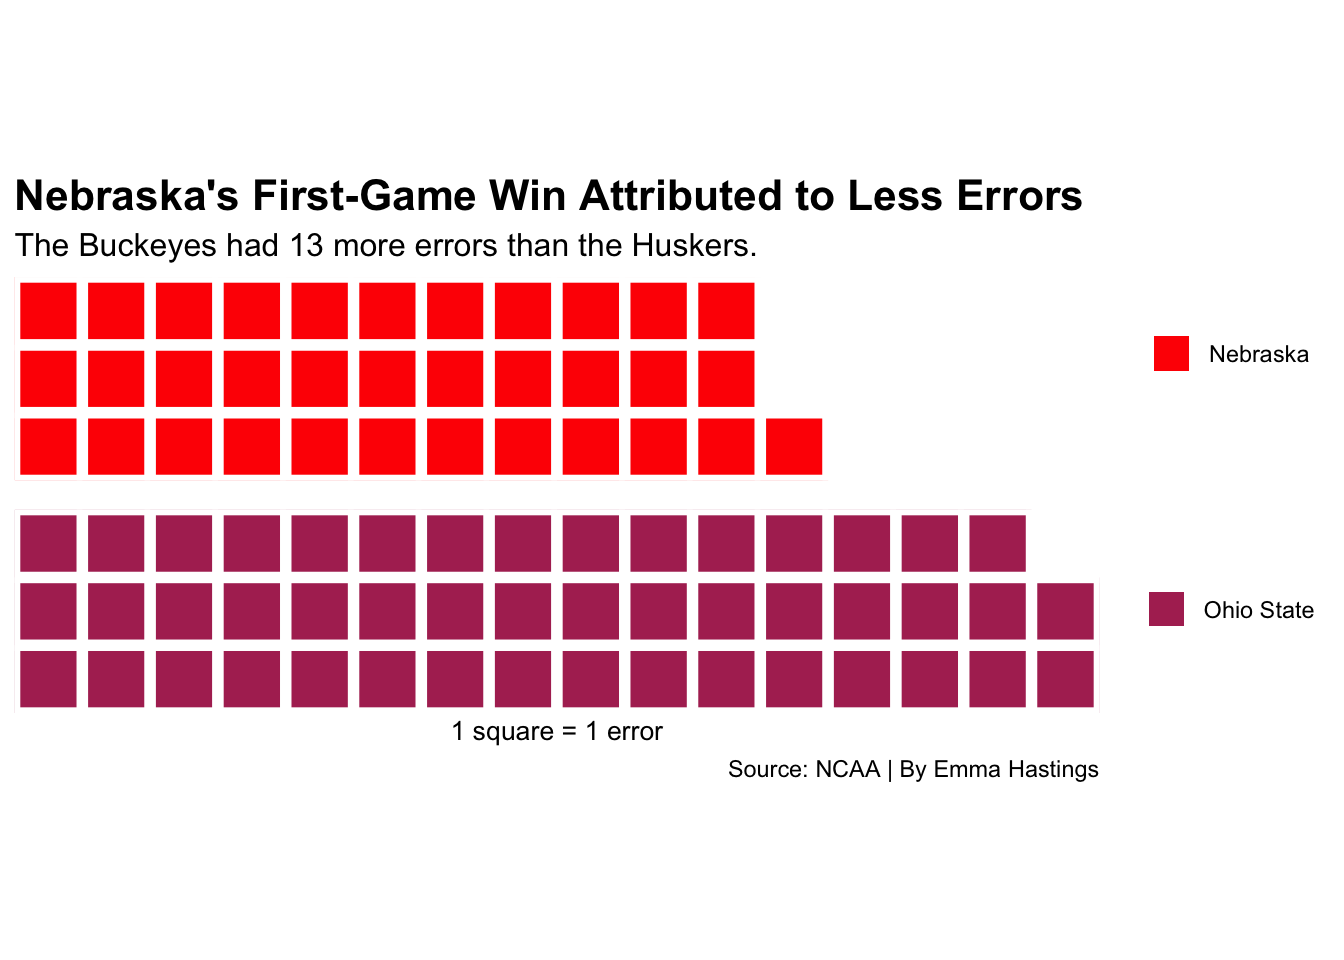
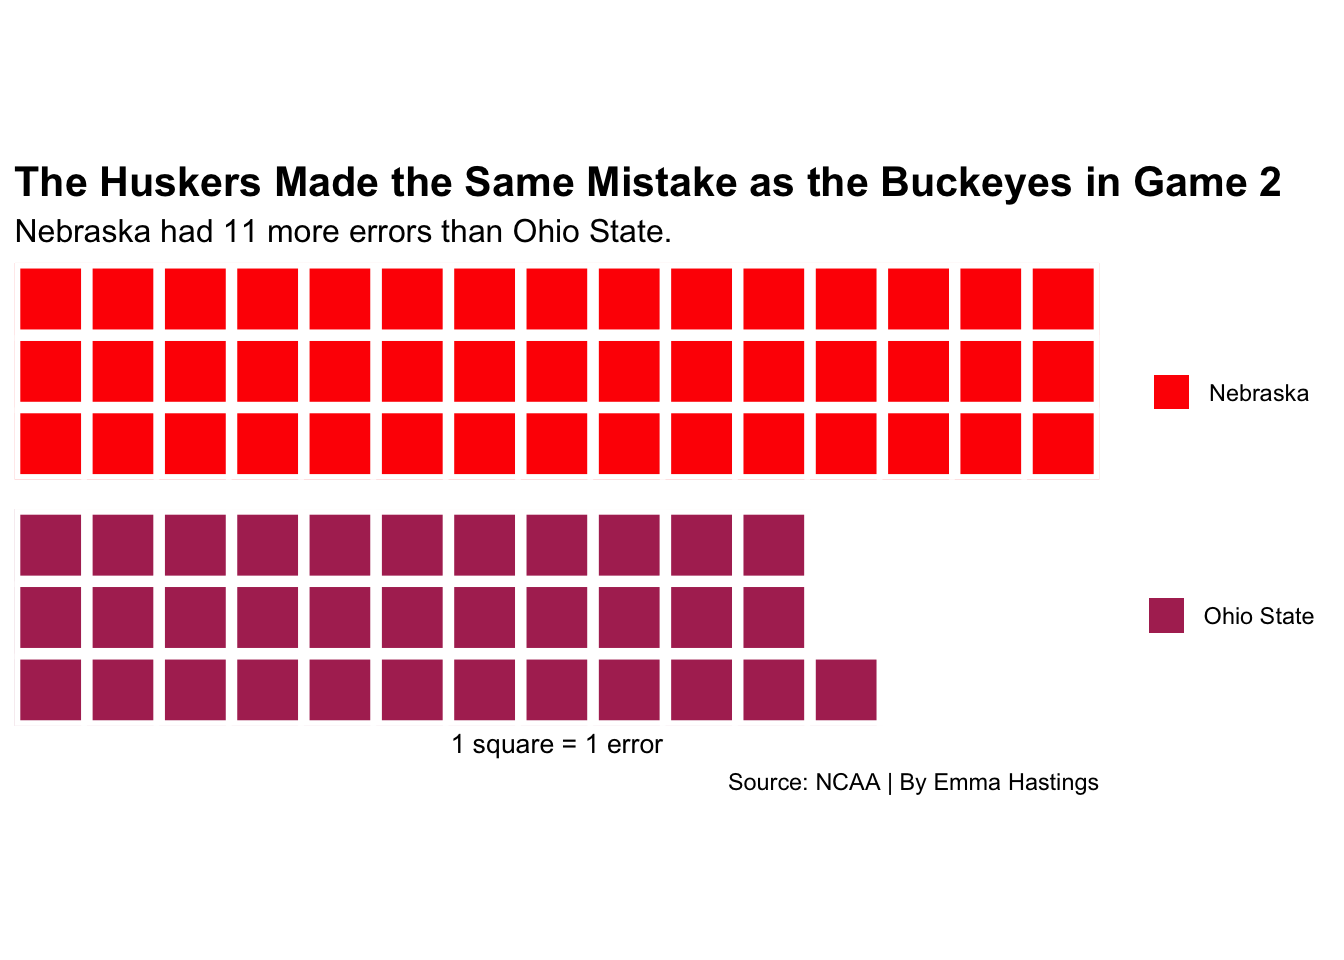
Another update to blog post.

diff --git a/2021/03/26/explaining-the-split-how-nebraska-volleyball-lost-to-a-team-they-beat-24-hours-before/index.html b/2021/03/26/explaining-the-split-how-nebraska-volleyball-lost-to-a-team-they-beat-24-hours-before/index.html
@@ -64,7 +64,7 @@
 
   <article class="article">
     
-    <span class="article-duration">10 min read</span>
+    <span class="article-duration">12 min read</span>
     
 
     <h1 class="article-title">Explaining the Split - How Nebraska Volleyball Lost to a Team They Beat 24 Hours Before</h1>
@@ -78,11 +78,11 @@
 <script src="http://ehastings17.github.io/2021/03/26/explaining-the-split-how-nebraska-volleyball-lost-to-a-team-they-beat-24-hours-before/index_files/header-attrs/header-attrs.js"></script>
 
 
-<p>There is no doubt that Nebraska is a volleyball school. After three visits to the NCAA Championship in the last 5 years, including 2 national championships, it would be insane to argue against it. Resultingly, any team playing the Cornhuskers really has to step up their game to compete, let alone make an attempt at getting a +1 in their win column.</p>
-<p>In mid-March, Ohio State was the next team to face off against the Huskers. The teams had two back-to-back games on the 12th and 13th. The Buckeyes were a surprise team in the Big Ten and were walking into Lincoln undefeated. Every fan of Big Ten volleyball knew that this was going to be an insane series - and they were right.</p>
+<p>There is no doubt that Nebraska is a volleyball school. After three visits to the NCAA Championship in the last 5 years, including 2 national championships in 2015 and 2017, it would be insane to argue against that statement. Unsurprisingly, any team playing the Cornhuskers has to step up their game to compete, let alone to make an attempt at getting a +1 in their win column.</p>
+<p>In mid-March, Ohio State was the next team to face off against Nebraska with two back-to-back games on the 12th and 13th. The Buckeyes were a surprise team in the Big Ten and were walking into Lincoln undefeated. Every fan of Big Ten volleyball knew that this was going to be an insane series - and they were right.</p>
 <p>After the weekend was over, Nebraska and Ohio State had split two five-set thrillers, with Nebraska taking the first game on the 12th, and Ohio State taking the second game on the 13th.</p>
-<p>So, what did it take for Nebraska to beat the only undefeated team left in the Big Ten? What did Ohio State have to do to rebound off a loss and beat one of the best teams in the nation? That’s what I’ll dive into in this blog post.</p>
-<p>First, I’m going to run the necessary libraries for this project, tidyverse, cowplot, waffle, ggrepel, and ggalt. Then, I’ll import two different data sets - one showing individual statistics for each player for each game, and the other showing team statistics from each set of both matches. I found this data on the NCAA’s website here** and here**.</p>
+<p>So, what did it take for Nebraska to beat the only undefeated team left in the Big Ten? What did Ohio State have to do to rebound after the loss and beat one of the best teams in the nation? That’s what I’ll dive into in this blog post.</p>
+<p>First, I’m going to run the necessary libraries for this project - tidyverse, cowplot, waffle, ggrepel, and ggalt. Then, I’ll import two different data sets - one showing individual statistics for each player for each game, and the other showing team statistics from each set of both matches. I found this data on the NCAA’s website <a href="https://www.ncaa.com/game/5783250">here</a> and <a href="https://www.ncaa.com/game/5783251">here</a>, and then I put the data into my own, importable CSV files.</p>
 <pre class="r"><code>library(tidyverse)</code></pre>
 <pre><code>## ── Attaching packages ─────────────────────────────────────── tidyverse 1.3.0 ──</code></pre>
 <pre><code>## ✓ ggplot2 3.3.3     ✓ purrr   0.3.4
@@ -105,7 +105,7 @@ library(ggalt)</code></pre>
 ##   grobY.absoluteGrob      ggplot2</code></pre>
 <pre class="r"><code>indivdata &lt;- read.csv(&quot;indivdata.csv&quot;)
 teamdata &lt;- read.csv(&quot;teamdata.csv&quot;)</code></pre>
-<p>Then, just to make things easier later on, I’m going to split each of my data sets up into two separate data frames by game. I’m going to be comparing the teams’ performances in each game, so now I’ll have it handy right when I need it.</p>
+<p>Then, just to make things easier later on, I’m going to split each of my data sets up into two separate data frames by game. I’m going to be comparing the teams’ performances in each game, and now I’ll have the data handy right when I need it.</p>
 <pre class="r"><code>indivgame1 &lt;- indivdata %&gt;% 
   filter(GAME == 1)
 
@@ -117,10 +117,10 @@ teamgame1 &lt;- teamdata %&gt;%
 
 teamgame2 &lt;- teamdata %&gt;% 
   filter(Game == 2)</code></pre>
-<p>I want to figure out what exactly made the difference in these two games. What stat line will explain Nebraska’s advantage in game one and Ohio State’s in game two? Being a volleyball player myself, I think it will be hitting percentage.</p>
+<p>I want to figure out what exactly made the difference in these two games. What stat lines will explain Nebraska’s advantage in game one and Ohio State’s in game two?</p>
+<p>Being a volleyball player myself, I think one will be hitting percentage. Hitting percentage tells us how likely a team is to get a kill. So, if a team’s hitting percentage is 35%, they’ll get a kill 35% of the time they get an attacking opportunity.</p>
 <p>Hitting percentage is calculated by subtracting a team’s hitting errors from their kills and dividing that number by the total number of hitting attempts. For all you math people, it looks like this: (kills-hitting errors)/total hitting attempts.</p>
-<p>First, I’ll make a line chart showing how Nebraska and Ohio State’s hitting percentages compare by set. I’m also adding annotations along the points on the chart to display the exact set-by-set hitting percentages.</p>
-<p>I also want to be able to tell who won each set just by looking at the chart. However, rather than cluttering up the chart with more words and numbers, I’m going to distinguish the winner of each set with a bigger point and each loser with a smaller point. I’m also going to assign this line chart to the variable “line1” for later.</p>
+<p>First, I am going to create a new data set with two new columns that convert the hitting percentages for both Nebraska and Ohio State to percentages. They are currently in decimal form, as that’s how they are usually displayed in volleyball statistics sets.</p>
 <pre class="r"><code>HPgame1 &lt;- teamgame1 %&gt;%
   mutate(NebPCT = (TeamPCT * 100)) %&gt;%
   mutate(OSUPCT = (OppPCT * 100))
@@ -128,6 +128,9 @@ teamgame2 &lt;- teamdata %&gt;%
 HPgame2 &lt;- teamgame2 %&gt;%
   mutate(NebPCT = (TeamPCT * 100)) %&gt;%
   mutate(OSUPCT = (OppPCT * 100))</code></pre>
+<p>In order to see hitting percentage’s effect on these games, I’m going to make two line charts showing how Nebraska and Ohio State’s hitting percentages compare by set. I’m also adding annotations to the chart to display the exact set-by-set hitting percentages.</p>
+<p>Additionally, I want to be able to tell who won each set just by looking at the chart. However, rather than cluttering up the chart with more words and numbers, I’m going to distinguish the winner of each set with a bigger point and the loser with a smaller point. The outcome of each game will be in the bottom left corner, as well. I’m also going to assign these line charts to the variables “line1” and “line2” for later.</p>
+<p>Here’s the code for the first line chart…</p>
 <pre class="r"><code>line1 &lt;- ggplot() +
   geom_line(data=HPgame1, aes(x=SET, y=NebPCT), color=&quot;red&quot;) +
   geom_line(data=HPgame1, aes(x=SET, y=OSUPCT), color=&quot;maroon&quot;) +
@@ -156,7 +159,7 @@ HPgame2 &lt;- teamgame2 %&gt;%
   scale_y_continuous(limits = c(0, 50)) +
   theme_bw() +
   theme(plot.title = element_text(size = 16, face = &quot;bold&quot;), plot.subtitle = element_text(size = 12), axis.title = element_text(size = 9))</code></pre>
-<p>Now let’s it all again, except we’ll do it for game 2. I’ll assign this line chart to the variable “line2”.</p>
+<p>… and here’s the code for the second.</p>
 <pre class="r"><code>line2 &lt;- ggplot() + 
   geom_line(data=HPgame2, aes(x=SET, y=NebPCT), color=&quot;red&quot;) +
   geom_line(data=HPgame2, aes(x=SET, y=OSUPCT), color=&quot;maroon&quot;) +
@@ -184,11 +187,12 @@ HPgame2 &lt;- teamgame2 %&gt;%
   labs(subtitle=&quot;The same thing happens in Game 2, except it&#39;s the Buckeyes&#39; turn.&quot;, x=&quot;Set&quot;, y=&quot;Hitting Percentage (%)&quot;, caption=&quot;Source: NCAA | By Emma Hastings&quot;) +
   theme_bw() +
   theme(plot.title = element_text(size = 16, face = &quot;bold&quot;), plot.subtitle = element_text(size = 12), axis.title = element_text(size = 9))</code></pre>
-<p>Finally, I’m going to use the plot_grid() code to put the line charts together. This way, we’ll be able to compare game 1’s hitting percentages with game 2’s. I also changed the figure height and width just so it’s not to scrunched together.</p>
+<p>Finally, I’m going to use “plot_grid()” to put the line charts together. This way, we’ll be able to compare Game 1’s hitting percentages with Game 2’s.</p>
 <pre class="r"><code>plot_grid(line1, line2, ncol = 1)</code></pre>
-<p><img src="http://ehastings17.github.io/2021/03/26/explaining-the-split-how-nebraska-volleyball-lost-to-a-team-they-beat-24-hours-before/index_files/figure-html/unnamed-chunk-6-1.png" width="360" /></p>
-<p>After comparing Nebraska and Ohio State’s hitting percentages from each set of both games, I can see that in every single set, the team with the best hitting percentage wins it, 100% of the time. Basically, in order for a team to win a set, and therefore win the game, they have to eliminate their hitting errors and capitalize on every opportunity they get to terminate the ball and wrack up more kills. Getting kills might be important, but if you’re committing an insane number of errors, you’re giving your opponent free points that they didn’t even have to work for.</p>
-<p>Speaking of errors, how much of an effect do they actually have on the outcome of the game? Well, as we saw above, hitting errors do make their presence known in the score. However, there are many different kinds of errors: hitting errors, serving errors, serve receive errors, blocking errors, and digging errors. So, why don’t we check out if the error column alone can predict the outcome of a game?</p>
+<p><img src="http://ehastings17.github.io/2021/03/26/explaining-the-split-how-nebraska-volleyball-lost-to-a-team-they-beat-24-hours-before/index_files/figure-html/unnamed-chunk-6-1.png" width="672" /></p>
+<p>After comparing Nebraska and Ohio State’s hitting percentages in both games, we can see that in every single set, the team with the best hitting percentage wins it. This happened 100% of the time in both matches</p>
+<p>Basically, in order for a team to win a set, and therefore win the game, they have to eliminate their hitting errors and capitalize on every opportunity they get to terminate the ball and wrack up more kills. Getting kills might be important, but if you’re committing an insane number of errors, you’re giving your opponent free points that they didn’t even have to work for.</p>
+<p>Speaking of errors, how much of an effect do they actually have on the outcome of the game? Well, as we saw above, hitting errors do make their presence known in the score. However, there are many different kinds of errors: hitting errors, serving errors, serve receive errors, blocking errors, and digging errors. So, why don’t we check out if the error column alone can predict the outcome of a game, as well?</p>
 <p>First, I’m going to isolate Nebraska and Ohio State by game.</p>
 <pre class="r"><code>neindivgame1 &lt;- indivgame1 %&gt;% 
   filter(TEAM == &quot;NEBRASKA CORNHUSKERS&quot;)
@@ -201,7 +205,7 @@ osuindivgame1 &lt;- indivgame1 %&gt;%
 
 osuindivgame2 &lt;- indivgame2 %&gt;% 
   filter(TEAM == &quot;OHIO STATE BUCKEYES&quot;)</code></pre>
-<p>Then, I mutated an “ERRORS” column that added up the total number of errors committed by each player (besides digging errors, which weren’t included in the stats).</p>
+<p>Then, I will mutate an “ERRORS” column that adds up the total number of errors committed by each player (besides digging errors, which weren’t included in the stats).</p>
 <pre class="r"><code>neerrorsgame1 &lt;- neindivgame1 %&gt;%
   group_by(NAME) %&gt;%
   mutate(ERRORS = sum(E + SE + RE + BE + BHE))
@@ -217,7 +221,7 @@ osuerrorsgame1 &lt;- osuindivgame1 %&gt;%
 osuerrorsgame2 &lt;- osuindivgame2 %&gt;%
   group_by(NAME) %&gt;%
   mutate(ERRORS = sum(E + SE + RE + BE + BHE))</code></pre>
-<p>Next, I summarized a “totalerrors” column that added up the total errors that each team committed for each game.</p>
+<p>Next, I will summarize a “totalerrors” column that adds up the total errors that each team committed for each game.</p>
 <pre class="r"><code>neTEgame1 &lt;- neerrorsgame1 %&gt;%
   group_by(TEAM) %&gt;% 
   summarise(totalerrors = sum(ERRORS))
@@ -233,26 +237,30 @@ osuTEgame1 &lt;- osuerrorsgame1 %&gt;%
 osuTEgame2 &lt;- osuerrorsgame2 %&gt;%
   group_by(TEAM) %&gt;% 
   summarise(totalerrors = sum(ERRORS))</code></pre>
-<p>Then, I made vectors for each team containing the number of errors they committed.</p>
+<p>Then, I will make vectors for each team containing the number of errors they committed.</p>
 <pre class="r"><code>nuerrorsg1 &lt;- c(&quot;Nebraska&quot; = 34, 13)
 nuerrorsg2 &lt;- c(&quot;Nebraska&quot; = 45)
 osuerrorsg1 &lt;- c(&quot;Ohio State&quot; = 47)
 osuerrorsg2 &lt;- c(&quot;Ohio State&quot; = 34, 11)</code></pre>
-<p>Finally, I put each data frame into a waffle and ironed them together to show how Nebraska and Ohio State compared for each game.</p>
+<p>Finally, I’m going to put each data frame into a waffle chart and iron them together to show how Nebraska and Ohio State compare in each game.</p>
+<p>Here is the code for the first iron…</p>
 <pre class="r"><code>g1errors &lt;- iron(waffle(nuerrorsg1, rows = 3, colors = c(&quot;red&quot;, &quot;white&quot;)) + 
-  labs(title = &quot;Nebraska&#39;s First-Game Win Attributed to Less Errors&quot;, subtitle = &quot;The Buckeyes had 13 more errors than the Huskers.&quot;) + 
+  labs(title = &quot;Nebraska&#39;s Win Attributed to Less Errors&quot;, subtitle = &quot;The Buckeyes had 13 more errors than the Huskers.&quot;) + 
   theme(plot.title = element_text(size = 16, face = &quot;bold&quot;), plot.subtitle = element_text(size = 12), axis.title.y = element_blank()),
 waffle(osuerrorsg1, rows = 3, xlab=&quot;1 square = 1 error&quot;, colors = c(&quot;maroon&quot;)) + 
   labs(caption = &quot;Source: NCAA | By Emma Hastings&quot;))</code></pre>
 <p><img src="http://ehastings17.github.io/2021/03/26/explaining-the-split-how-nebraska-volleyball-lost-to-a-team-they-beat-24-hours-before/index_files/figure-html/unnamed-chunk-11-1.png" width="672" /></p>
+<p>… and here’s the code for the second.</p>
 <pre class="r"><code>g2errors &lt;- iron(waffle(nuerrorsg2, rows = 3, colors = c(&quot;red&quot;)) + 
-  labs(title = &quot;The Huskers Made the Same Mistake in Game 2&quot;, subtitle = &quot;Nebraska had 11 more errors than Ohio State.&quot;) + 
-  theme(plot.title = element_text(size = 16, face = &quot;bold&quot;), plot.subtitle = element_text(size = 12), axis.title.y = element_blank()),
+  labs(title = &quot;The Huskers Made the Same Mistake as the Buckeyes in Game 2&quot;, subtitle = &quot;Nebraska had 11 more errors than Ohio State.&quot;) + 
+  theme(plot.title = element_text(size = 15.5, face = &quot;bold&quot;), plot.subtitle = element_text(size = 12), axis.title.y = element_blank()),
   waffle(osuerrorsg2, rows = 3, xlab=&quot;1 square = 1 error&quot;, colors = c(&quot;maroon&quot;, &quot;white&quot;)) +
     labs(caption = &quot;Source: NCAA | By Emma Hastings&quot;))</code></pre>
-<p><img src="http://ehastings17.github.io/2021/03/26/explaining-the-split-how-nebraska-volleyball-lost-to-a-team-they-beat-24-hours-before/index_files/figure-html/unnamed-chunk-11-2.png" width="672" /></p>
-<p>After a single glance at either game one or game two, it’s easy to see that errors were the kicker here. The winner of each game had significantly fewer errors than the loser. This makes complete sense. Not only can hitting percentage and total errors can predict the outcome of a game on their own, but imagine the damage they can do together. If a team is just having an off day - can’t get kills and are shanking passes and missing blocks left and right - it’s a fair statement that they will almost never win. That is, as long as the other team isn’t having an even worse day.</p>
-<p>Last, but not least, I want to do some comparisons about blocking.</p>
+<p><img src="http://ehastings17.github.io/2021/03/26/explaining-the-split-how-nebraska-volleyball-lost-to-a-team-they-beat-24-hours-before/index_files/figure-html/unnamed-chunk-12-1.png" width="672" /></p>
+<p>After a single glance at either Game 1 or Game 2, it’s a no-brainer that errors were the losers’ kryptonite here. The winner of each game had significantly fewer errors than the loser. This makes complete sense.</p>
+<p>If hitting percentage and total errors can predict the outcome of a game on their own, imagine the damage they can do together. If a team is just having an off day - can’t get kills, shanking passes, missing blocks left and right - it’s a fair statement to make that they will almost never win. That is, as long as the other team isn’t having an even worse day.</p>
+<p>Last, but not least, I want to do some comparisons with blocking. When a team blocks their opponent’s hits, there is absolutely nothing the other team can do about it. The rally is over, and you’re on your way to the back row to get ready for serve receive. Not to mention, a big block can do a lot for a team’s momentum. So, can blocks predict the outcome of a game, too? Let’s check it out.</p>
+<p>First, I am going to mutate a new column that adds up the total solo blocks and block assists for each player, and then I’ll add this to a new data frame for each game.</p>
 <pre class="r"><code>indivblockg1 &lt;- indivgame1 %&gt;%
  group_by(NAME) %&gt;%
   mutate(BLOCKS = sum(BS + BA))
@@ -260,6 +268,7 @@ waffle(osuerrorsg1, rows = 3, xlab=&quot;1 square = 1 error&quot;, colors = c(&q
 indivblockg2 &lt;- indivgame2 %&gt;%
  group_by(NAME) %&gt;%
   mutate(BLOCKS = sum(BS + BA))</code></pre>
+<p>Then, I’m going to add up each individual’s blocks to get a team total for each game, as well, and I will put this information in it’s own data frame.</p>
 <pre class="r"><code>teamblockg1 &lt;- indivblockg1 %&gt;%
   group_by(TEAM) %&gt;%
   summarise(TOTALBLOCKS = sum(BLOCKS))
@@ -267,6 +276,7 @@ indivblockg2 &lt;- indivgame2 %&gt;%
 teamblockg2 &lt;- indivblockg2 %&gt;%
   group_by(TEAM) %&gt;%
   summarise(TOTALBLOCKS = sum(BLOCKS))</code></pre>
+<p>Next, I’m going to separate each game out into Nebraska and Ohio State so I can compare their blocking totals later.</p>
 <pre class="r"><code>nublocks1 &lt;- teamblockg1 %&gt;% 
   filter(TEAM == &quot;NEBRASKA CORNHUSKERS&quot;)
 
@@ -278,6 +288,8 @@ osublocks1 &lt;- teamblockg1 %&gt;%
 
 osublocks2 &lt;- teamblockg2 %&gt;% 
   filter(TEAM == &quot;OHIO STATE BUCKEYES&quot;)</code></pre>
+<p>Then, I’m going to create two separate bar charts displaying each team’s blocking totals for each game.</p>
+<p>Here’s the code for the first bar chart…</p>
 <pre class="r"><code>blockg1 &lt;- ggplot() + 
   geom_bar(data=teamblockg1, aes(x=TEAM, weight=`TOTALBLOCKS`)) +
   geom_bar(data=nublocks1, aes(x=TEAM, weight=`TOTALBLOCKS`, group=TEAM), color=&quot;red&quot;) +
@@ -287,10 +299,10 @@ osublocks2 &lt;- teamblockg2 %&gt;%
   scale_y_continuous(limits = c(0, 21)) +
   annotate(&quot;text&quot;, x=1, y=17.5, label=&quot;17&quot;, size=4) +
   annotate(&quot;text&quot;, x=2, y=8.5, label=&quot;8&quot;, size=4) +
-  theme(plot.title = element_text(size = 16, face = &quot;bold&quot;), plot.subtitle = element_text(size = 11), axis.title = element_text(size=10))
-
-
-blockg2 &lt;- ggplot() + 
+  annotate(&quot;text&quot;, x=0.65, y=21, label=&quot;NEB 3-2&quot;, size=4) +
+  theme(plot.title = element_text(size = 16, face = &quot;bold&quot;), plot.subtitle = element_text(size = 11), axis.title = element_text(size=10))</code></pre>
+<p>… and here’s the code for the second.</p>
+<pre class="r"><code>blockg2 &lt;- ggplot() + 
   geom_bar(data=teamblockg2, aes(x=TEAM, weight=`TOTALBLOCKS`)) +
   geom_bar(data=nublocks2, aes(x=TEAM, weight=`TOTALBLOCKS`, group=TEAM), color=&quot;red&quot;) +
   geom_bar(data=osublocks2, aes(x=TEAM, weight=`TOTALBLOCKS`, group=TEAM), color=&quot;maroon&quot;) +
@@ -298,10 +310,15 @@ blockg2 &lt;- ggplot() +
   labs(title = &quot;If So, You&#39;ll Probably Win.&quot;, subtitle = &quot;The Buckeyes out-blocked the Huskers by 10 in game 2.&quot;, y=&quot;&quot;, x=&quot;Team&quot;, caption = &quot;Source: NCAA | By Emma Hastings&quot;) +
   annotate(&quot;text&quot;, x=1, y=10.5, label=&quot;10&quot;, size=4) +
   annotate(&quot;text&quot;, x=2, y=20.5, label=&quot;20&quot;, size=4) +
+  annotate(&quot;text&quot;, x=0.65, y=21, label=&quot;OSU 3-2&quot;, size=4) +
   scale_y_continuous(limits = c(0, 21)) +
   theme(plot.title = element_text(size = 16, face = &quot;bold&quot;), plot.subtitle = element_text(size = 11), axis.title = element_text(size=10))</code></pre>
+<p>Finally, I’ll use “plot_grid()” again in order to compare the two games.</p>
 <pre class="r"><code>plot_grid(blockg1, blockg2, ncol=2)</code></pre>
-<p><img src="http://ehastings17.github.io/2021/03/26/explaining-the-split-how-nebraska-volleyball-lost-to-a-team-they-beat-24-hours-before/index_files/figure-html/unnamed-chunk-16-1.png" width="432" /></p>
+<p><img src="http://ehastings17.github.io/2021/03/26/explaining-the-split-how-nebraska-volleyball-lost-to-a-team-they-beat-24-hours-before/index_files/figure-html/unnamed-chunk-18-1.png" width="672" /></p>
+<p>Based off this chart, we can truly comprehend the effect that blocking has on the outcome of a game. When one team is having a block-fest, the other team tends to suffer in their own blocking endeavors. And let’s face it… when you’re getting out-blocked by nearly 10, you’re probably losing in both the scoring and momentum departments.</p>
+<p>So, why did Nebraska beat the only undefeated team left in the Big Ten, and how did Ohio State rebound after the loss and beat one of the best teams in the nation? In every single category, the team that had the better numbers walked out of the gym with the dub. The team with the better hitting percentage won each set, and the team with the fewest errors and most blocks won the game.</p>
+<p>To put it bluntly, in order to win a game, you must simply outperformed the other team in every way possible. Nebraska did that on March 12th. Ohio State did that on March 13th.</p>
 
     </div>
   </article>
